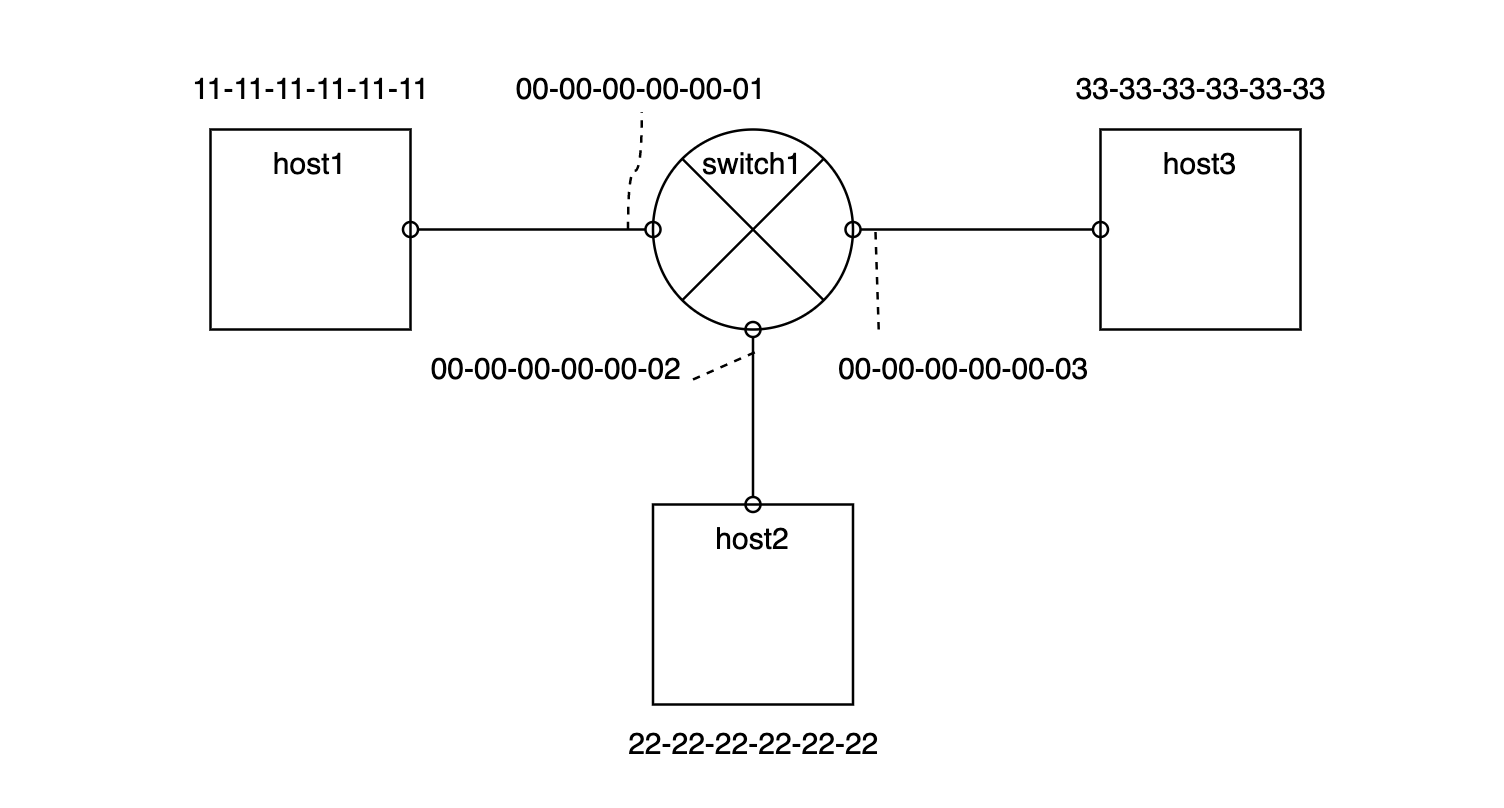
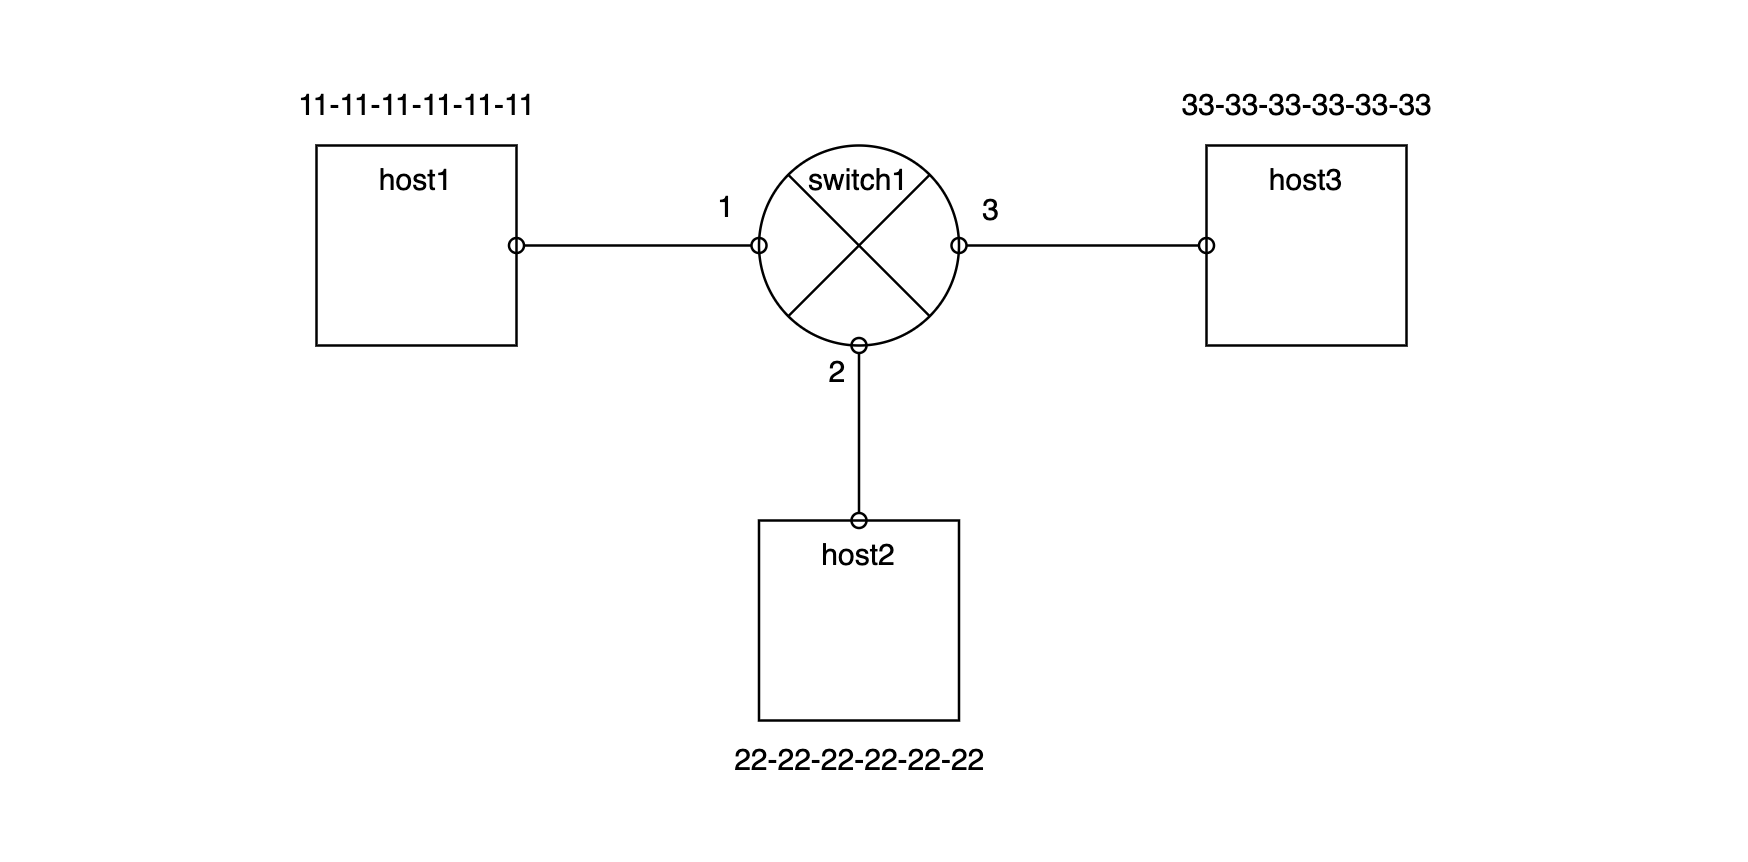
docs: update test README.md to use Port keyword

diff --git a/test/README.md b/test/README.md
@@ -8,7 +8,7 @@
 
 ![vnet_test_network_type_1](../images/vnet_test_network_type_1.png)
 
-Type-1 network is very simple. There's two host on the network each has hardware address "11-11-11-11-11-11", "11-11-11-11-11-12" respectively. And those are connected on single link with interface
+Type-1 network is very simple. There's two host on the network each has hardware address "11-11-11-11-11-11", "11-11-11-11-11-12" respectively. And those are connected on single link with port
 
 
 
@@ -24,7 +24,7 @@ Type-2 network has one switch "switch1" and three host ("host1", "host2", "host3
 
 ![vnet_test_network_type_3](../images/vnet_test_network_type_3.png)
 
-Type-3 network has two switches ("switch1", "switch2") and three hosts ("host1", "host2", "host3"). On "switch1", there's three interfaces and each connected with "host1", "host2", "switch2". And on "switch2", there's two interfaces and each connected with "switch1" and "host3"
+Type-3 network has two switches ("switch1", "switch2") and three hosts ("host1", "host2", "host3"). On "switch1", there's three ports and each connected with "host1", "host2", "switch2". And on "switch2", there's two ports and each connected with "switch1" and "host3"
 
 
 
@@ -51,10 +51,10 @@ Type-3 network has two switches ("switch1", "switch2") and three hosts ("host1",
 
 #### Description
 
-- The purpose of sceanrio-2 is to veryify when switch has no forward data on table, it broadcasts frame to interfaces it has
+- The purpose of sceanrio-2 is to veryify when switch has no forward data on table, it broadcasts frame to ports it has
 - "switch1" has forwarding table but it is empty. 
 - "host1" tries to send frame to "host2"
-- when "switch1" receives frame from "host1", first update forwarding table then "switch1" broadcasts frame to other interfaces except interface which is attached to "host1"
+- when "switch1" receives frame from "host1", first update forwarding table then "switch1" broadcasts frame to other ports except port which is attached to "host1"
 - "host2", "host3" have to receive frame sent by "host1"
 
 
@@ -74,7 +74,7 @@ Type-3 network has two switches ("switch1", "switch2") and three hosts ("host1",
 
 
 
-### Sceanrio-4: discard frame when target exists on same interface where it receives frame
+### Sceanrio-4: discard frame when target exists on same port where it receives frame
 
 #### Network Type
 
@@ -82,12 +82,12 @@ Type-3 network has two switches ("switch1", "switch2") and three hosts ("host1",
 
 #### Description
 
-- The purpose of sceanrio-3 is to veryify when switch receives frame from the interface and switch forwarding table says target host exists on the same interface where the frame comes from, then switch discard that frame.
+- The purpose of sceanrio-3 is to veryify when switch receives frame from the port and switch forwarding table says target host exists on the same port where the frame comes from, then switch discard that frame.
 - "switch1" has forwarding table with empty state
-- "switch2" has forwarding table and has information about "host2" exists on interface "00-00-00-00-00-11".
+- "switch2" has forwarding table and has information about "host2" exists on port "1".
 - "host1" tries to send frame to "host2"
-- when "switch1" receives frame from "host1" it broadcasts to other interfaces.
-- when "switch2" receives frame from "switch1", because it has information target host ("host2") exists on the interface where it attached to "switch1", it discards frame
+- when "switch1" receives frame from "host1" it broadcasts to other ports.
+- when "switch2" receives frame from "switch1", because it has information target host ("host2") exists on the port where it attached to "switch1", it discards frame
 - "host2" have to receive frame sent by "host1" and "host3" should not
 
 
